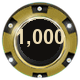
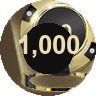
release: v1.0.3 黑底筹码重贴，清理顶部 pill 绿边瑕疵
用单独筹码图重贴 10/20/100/MAX（50 空位保留），去掉左箭头保留右箭头；从 HQ 还原限额/余额条并保持余额 2,000。

diff --git a/index.html b/index.html
@@ -5,11 +5,11 @@
   <meta name="viewport" content="width=device-width, initial-scale=1, maximum-scale=1, user-scalable=no" />
   <meta name="robots" content="noindex,nofollow" />
   <title>Forest Group · 骰宝</title>
-  <link rel="preload" as="image" href="pc-full.webp?v=v1.0.2" type="image/webp" fetchpriority="high" />
-  <link rel="preload" as="image" href="chips/chip-10.webp?v=v1.0.2" type="image/webp" />
-  <link rel="preload" as="image" href="chips/chip-20.webp?v=v1.0.2" type="image/webp" />
-  <link rel="preload" as="image" href="chips/chip-50.webp?v=v1.0.2" type="image/webp" />
-  <link rel="preload" as="image" href="chips/chip-100.webp?v=v1.0.2" type="image/webp" />
+  <link rel="preload" as="image" href="pc-full.webp?v=v1.0.3" type="image/webp" fetchpriority="high" />
+  <link rel="preload" as="image" href="chips/chip-10.webp?v=v1.0.3" type="image/webp" />
+  <link rel="preload" as="image" href="chips/chip-20.webp?v=v1.0.3" type="image/webp" />
+  <link rel="preload" as="image" href="chips/chip-50.webp?v=v1.0.3" type="image/webp" />
+  <link rel="preload" as="image" href="chips/chip-100.webp?v=v1.0.3" type="image/webp" />
   <style>
     :root {
       --stage-w: 2188;
@@ -65,7 +65,7 @@
       z-index: 20;
     }
 
-    /* 未点：露出底图原筹码。一点：原位贴上 → 升起，原底边变光柱（高度对齐黄50，只压一点绿边） */
+    /* 未点：底图平贴。一点：原位贴上 → 升起 + 光柱（1.0.2） */
     .chip-btn {
       position: absolute;
       z-index: 32;
@@ -80,7 +80,6 @@
     }
     .chip-btn:focus,
     .chip-btn:focus-visible { outline: none !important; }
-    /* 光圈：钉在原筹码底边位置，不跟着筹码走 */
     .chip-btn::after {
       content: "";
       position: absolute;
@@ -104,7 +103,6 @@
       z-index: 0;
       transition: opacity .16s ease, transform .2s cubic-bezier(.2,.8,.2,1);
     }
-    /* 光柱：从原底边往上，背景不动 */
     .chip-btn::before {
       content: "";
       position: absolute;
@@ -166,39 +164,41 @@
       opacity: 1;
       transform: translateX(-50%) scale(1);
     }
-    /* 升起：与黄50同高，只压一点绿边；不加放大 */
     .chip-btn.on.up img {
       transform: translateY(-22%);
     }
 
-    /* 最早热区位置，不动筹码底图 */
-    #chip-a  { left: 69.104%; top: 84.35%; width: 3.931%; aspect-ratio: 1; }
-    #chip-b  { left: 74.543%; top: 84.28%; width: 4.022%; aspect-ratio: 1; }
-    #chip-c  { left: 79.159%; top: 84.35%; width: 4.479%; aspect-ratio: 1; }
-    #chip-d  { left: 85.283%; top: 84.40%; width: 4.205%; aspect-ratio: 1; }
+    /* 第一步：50 叠层先关掉，只留涂抹干净的空座位；下一步再贴筹码 */
+    #chip-c { visibility: hidden; pointer-events: none; }
+
+    /* 10/20/50/100 同尺寸；50 在 20 与 100 正中 */
+    #chip-a  { left: 69.104%; top: 84.32%; width: 4.022%; aspect-ratio: 1; }
+    #chip-b  { left: 74.543%; top: 84.32%; width: 4.022%; aspect-ratio: 1; }
+    #chip-c  { left: 79.982%; top: 84.32%; width: 4.022%; aspect-ratio: 1; }
+    #chip-d  { left: 85.283%; top: 84.32%; width: 4.022%; aspect-ratio: 1; }
   </style>
 </head>
 <body>
   <div class="frame">
     <div class="stage">
       <picture>
-        <source srcset="pc-full.webp?v=v1.0.2" type="image/webp" />
-        <img class="bg" id="bgImg" src="pc-full.jpg?v=v1.0.2" alt="骰宝" width="2188" height="1393" decoding="async" fetchpriority="high" draggable="false" />
+        <source srcset="pc-full.webp?v=v1.0.3" type="image/webp" />
+        <img class="bg" id="bgImg" src="pc-full.jpg?v=v1.0.3" alt="骰宝" width="2188" height="1393" decoding="async" fetchpriority="high" draggable="false" />
       </picture>
 
       <div class="bal">2,000</div>
 
       <button class="chip-btn" id="chip-a" data-slot="0" type="button" aria-label="筹码10">
-        <img src="chips/chip-10.webp?v=v1.0.2" alt="" decoding="async" draggable="false" />
+        <img src="chips/chip-10.webp?v=v1.0.3" alt="" decoding="async" draggable="false" />
       </button>
       <button class="chip-btn" id="chip-b" data-slot="1" type="button" aria-label="筹码20">
-        <img src="chips/chip-20.webp?v=v1.0.2" alt="" decoding="async" draggable="false" />
+        <img src="chips/chip-20.webp?v=v1.0.3" alt="" decoding="async" draggable="false" />
       </button>
       <button class="chip-btn" id="chip-c" data-slot="2" type="button" aria-label="筹码50">
-        <img src="chips/chip-50.webp?v=v1.0.2" alt="" decoding="async" draggable="false" />
+        <img src="chips/chip-50.webp?v=v1.0.3" alt="" decoding="async" draggable="false" />
       </button>
       <button class="chip-btn" id="chip-d" data-slot="3" type="button" aria-label="筹码100">
-        <img src="chips/chip-100.webp?v=v1.0.2" alt="" decoding="async" draggable="false" />
+        <img src="chips/chip-100.webp?v=v1.0.3" alt="" decoding="async" draggable="false" />
       </button>
     </div>
   </div>
@@ -214,7 +214,6 @@
           const turnOn = !btn.classList.contains('on');
           chips.forEach((b) => b.classList.remove('on', 'up'));
           if (!turnOn) return;
-          // 先原位贴上，再抬起（上升动作，不是直接盖住）
           btn.classList.add('on');
           requestAnimationFrame(() => {
             requestAnimationFrame(() => btn.classList.add('up'));
